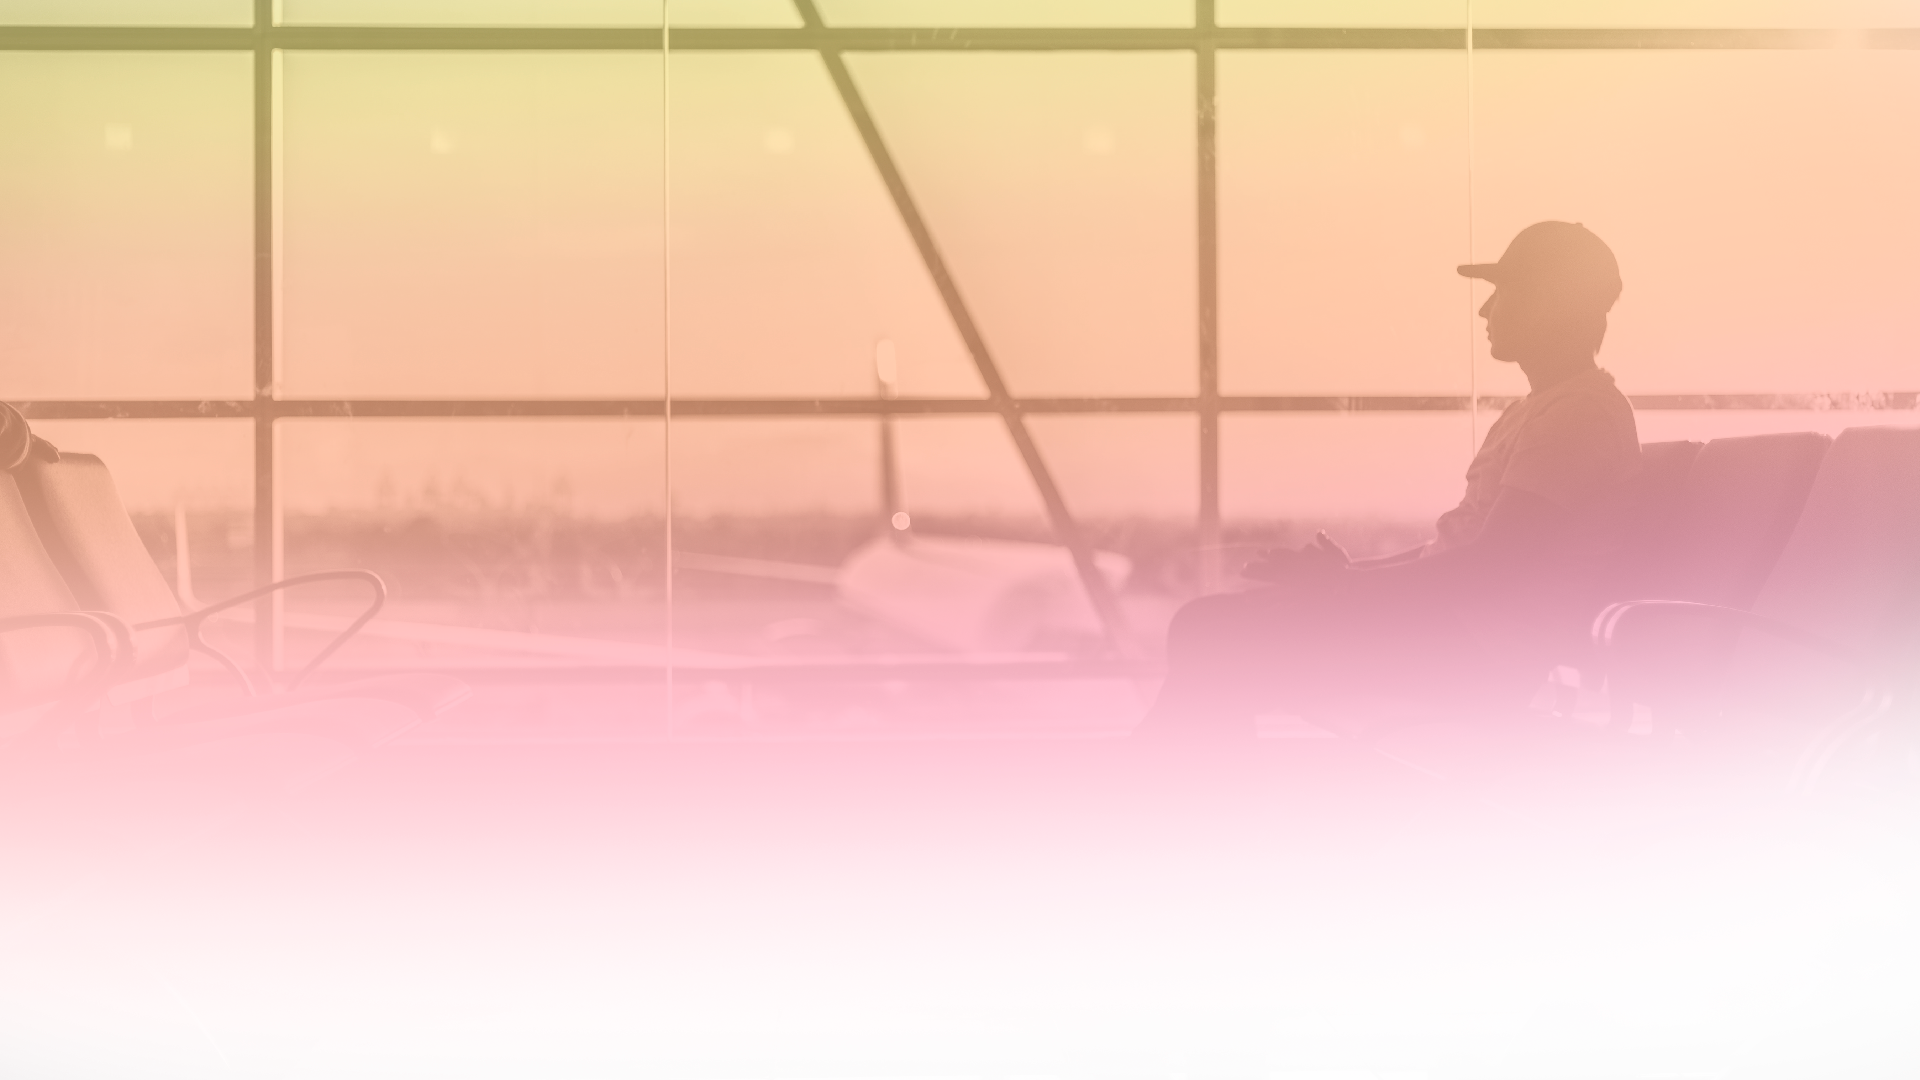
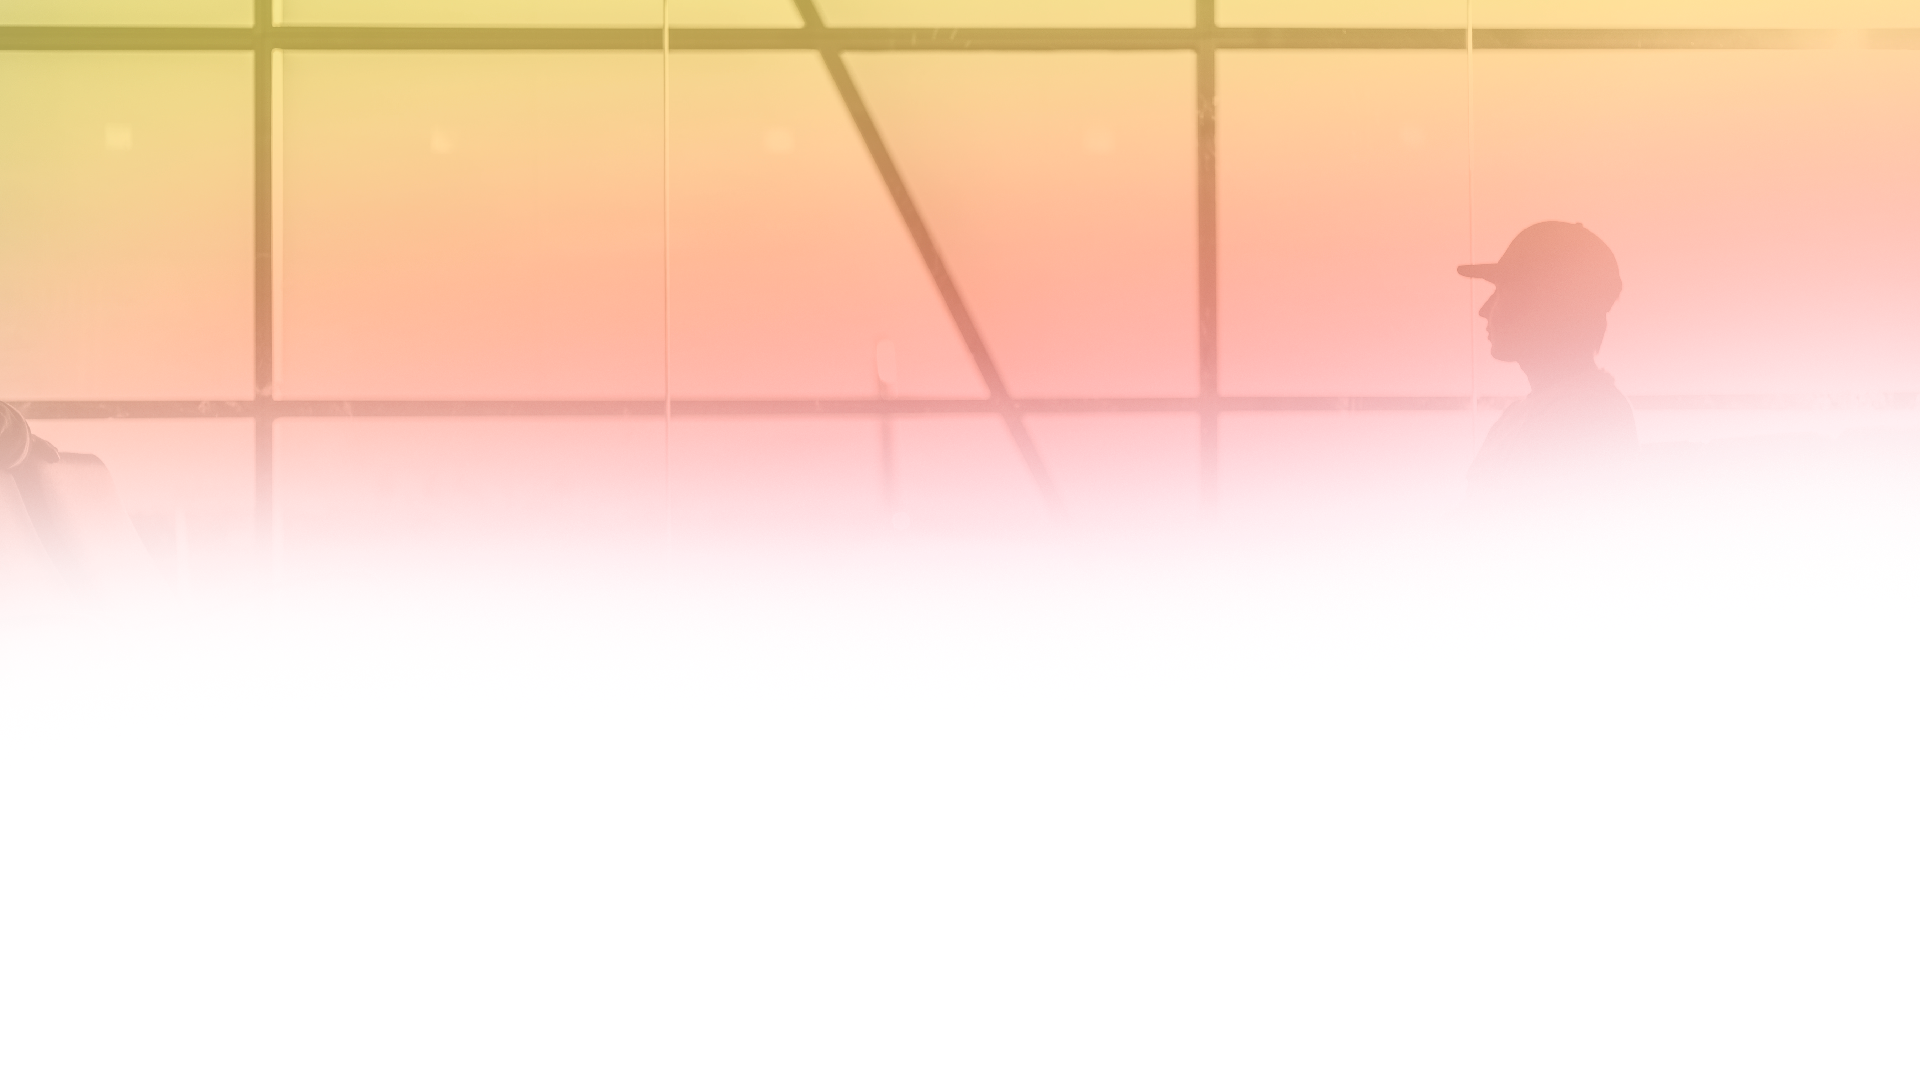
add background image

diff --git a/tick_ticket/src/components/SearchersContainer.js b/tick_ticket/src/components/SearchersContainer.js
@@ -12,7 +12,7 @@ function SearchersContainer(props) {
         setSearchers(searchers => [...searchers, <SearcherModeSelector hasDeleteButton={true}/>]);
     }
     return (
-        <div>
+        <div style={{ marginTop: '2%' }}>
             <Container fluid={true}>
       <Row>
         <Col>
@@ -20,7 +20,7 @@ function SearchersContainer(props) {
        <Col xl="6" lg="6" md="6" sm="12" xs="12">
        <SearcherModeSelector hasDeleteButton={false}/>
        {searchers}
-            <Button variant="outline-success" block onClick={addSearcher}>
+            <Button variant="success" block onClick={addSearcher}>
                 + Add trip route +
             </Button>
        </Col>

diff --git a/tick_ticket/src/App.js b/tick_ticket/src/App.js
@@ -1,13 +1,16 @@
 import React from 'react';
 import NavBar from './components/Navbar';
 import SearchersContainer from './components/SearchersContainer';
+import AppBackground from './components/AppBackground';
 import './App.css';
 
 function App() {
   return (
     <div>
       <NavBar/>
+      <AppBackground>
       <SearchersContainer/>
+      </AppBackground>
     </div>
   );
 }

diff --git a/tick_ticket/src/components/AppBackground.js b/tick_ticket/src/components/AppBackground.js
@@ -1,0 +1,13 @@
+import React from 'react'
+import BackgroundImg from '../Background.png';
+
+
+function AppBackground(props) {
+    return (
+        <section style={{backgroundImage: `url(${BackgroundImg})`, position: 'absolute', height: '110%', width: '100%', backgroundSize: 'cover'}}>
+            {props.children}
+        </section>
+    );
+}
+
+export default AppBackground;
